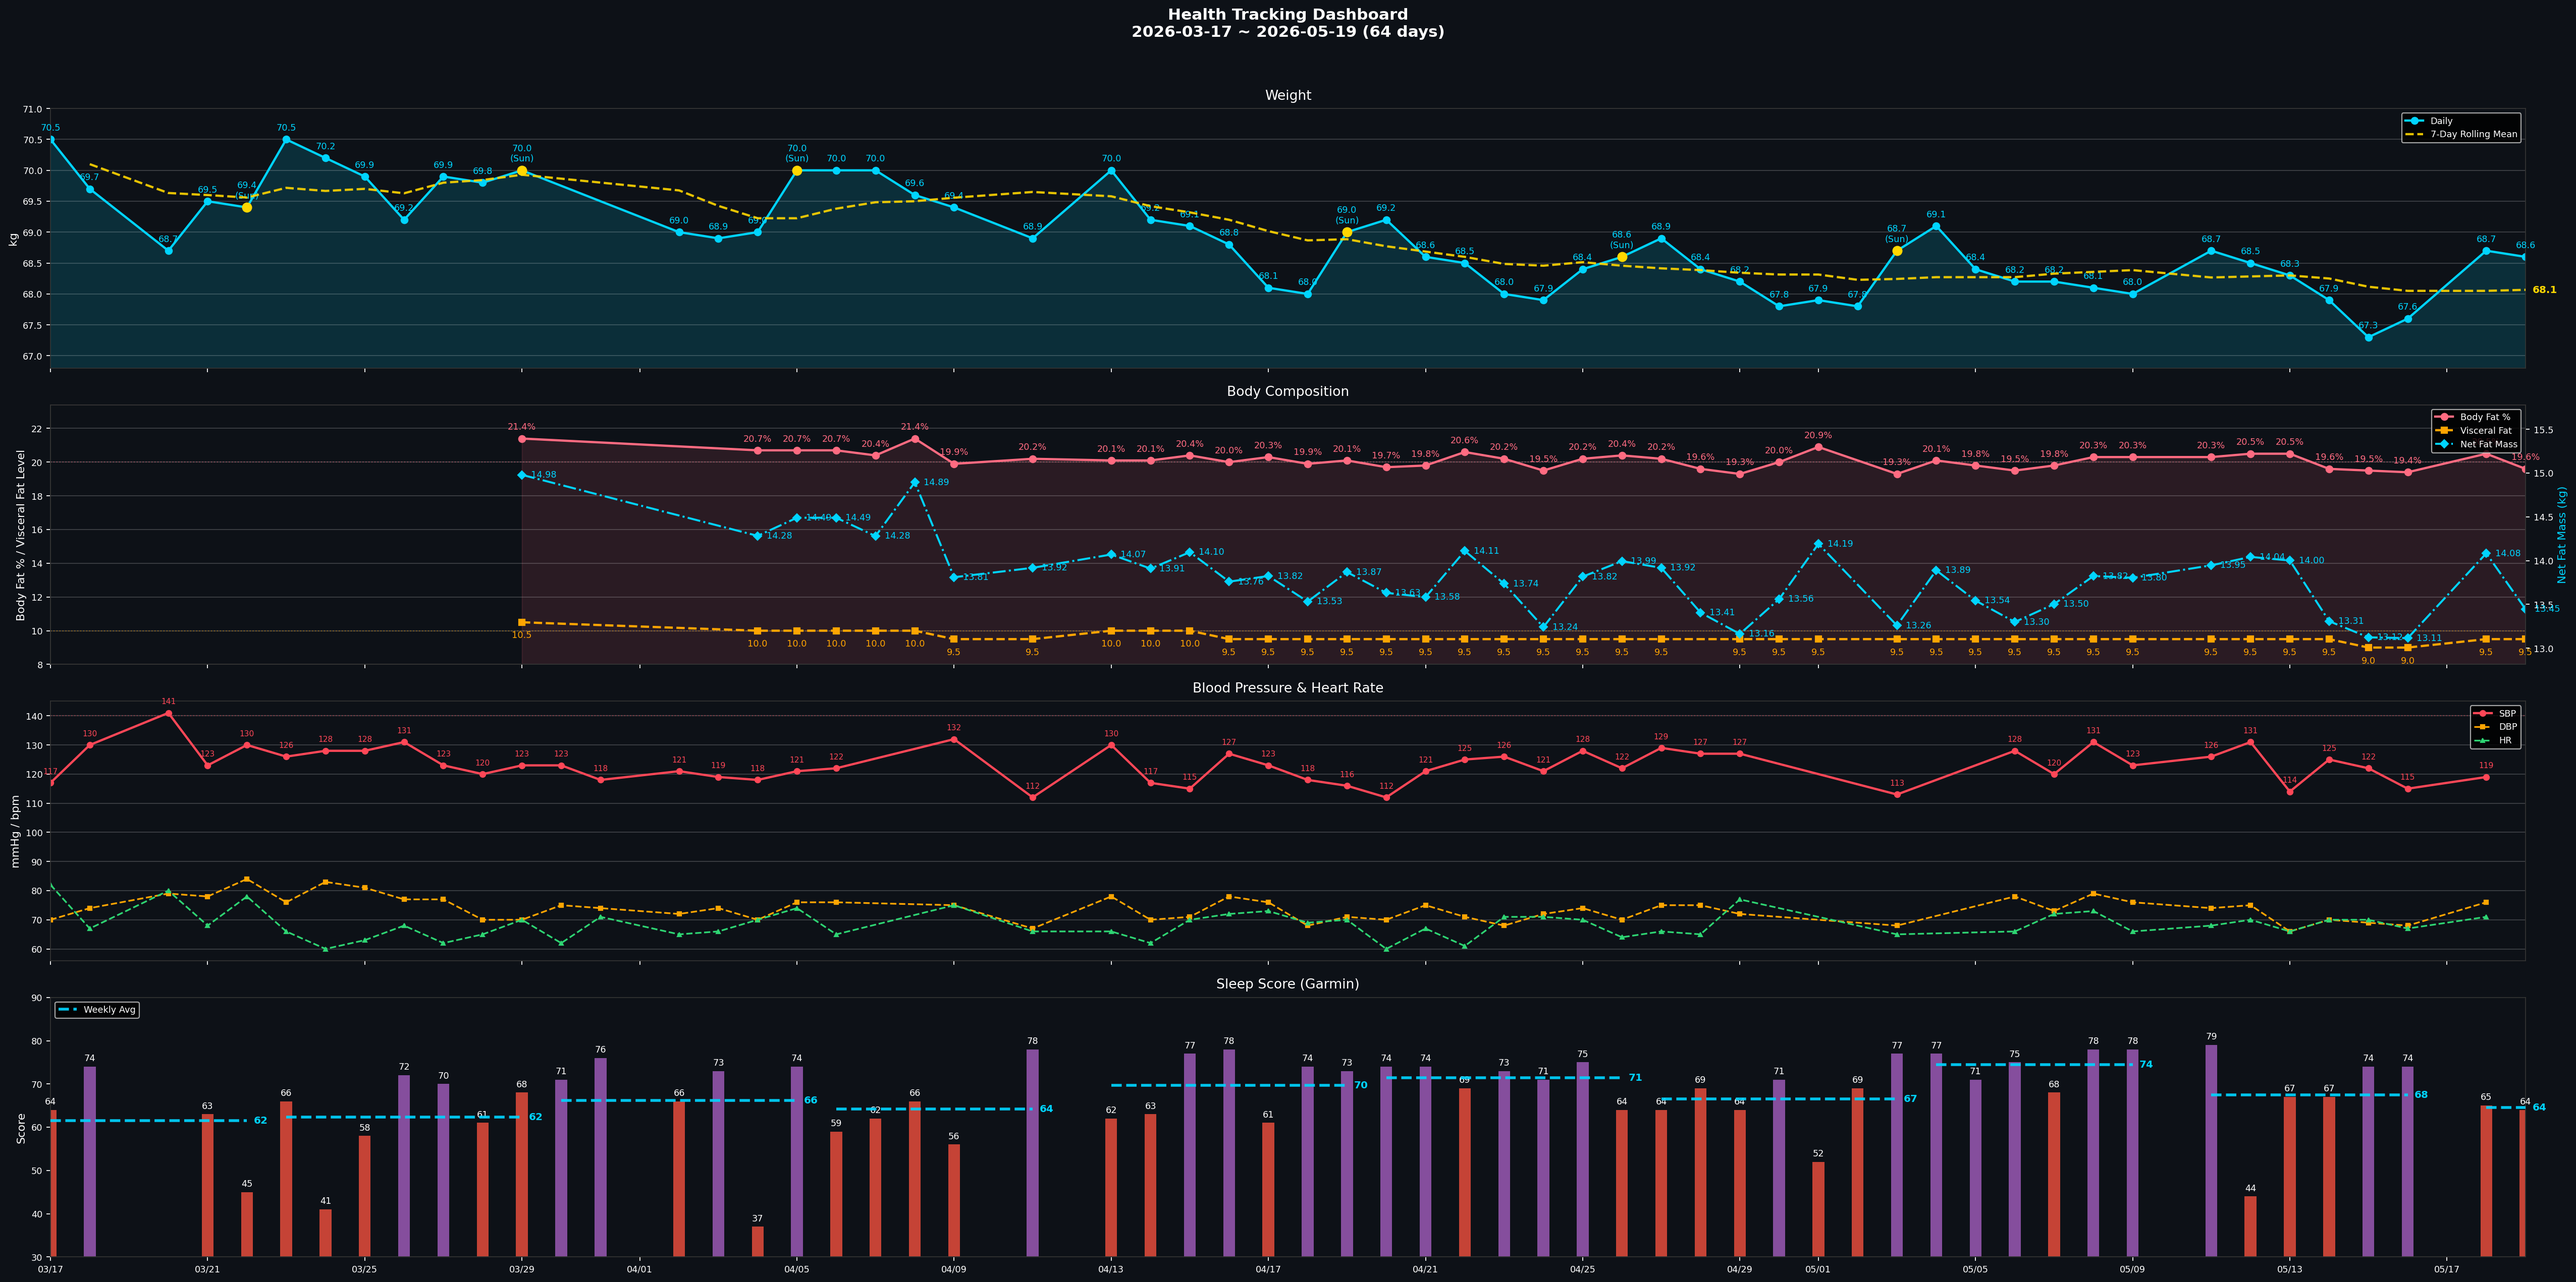
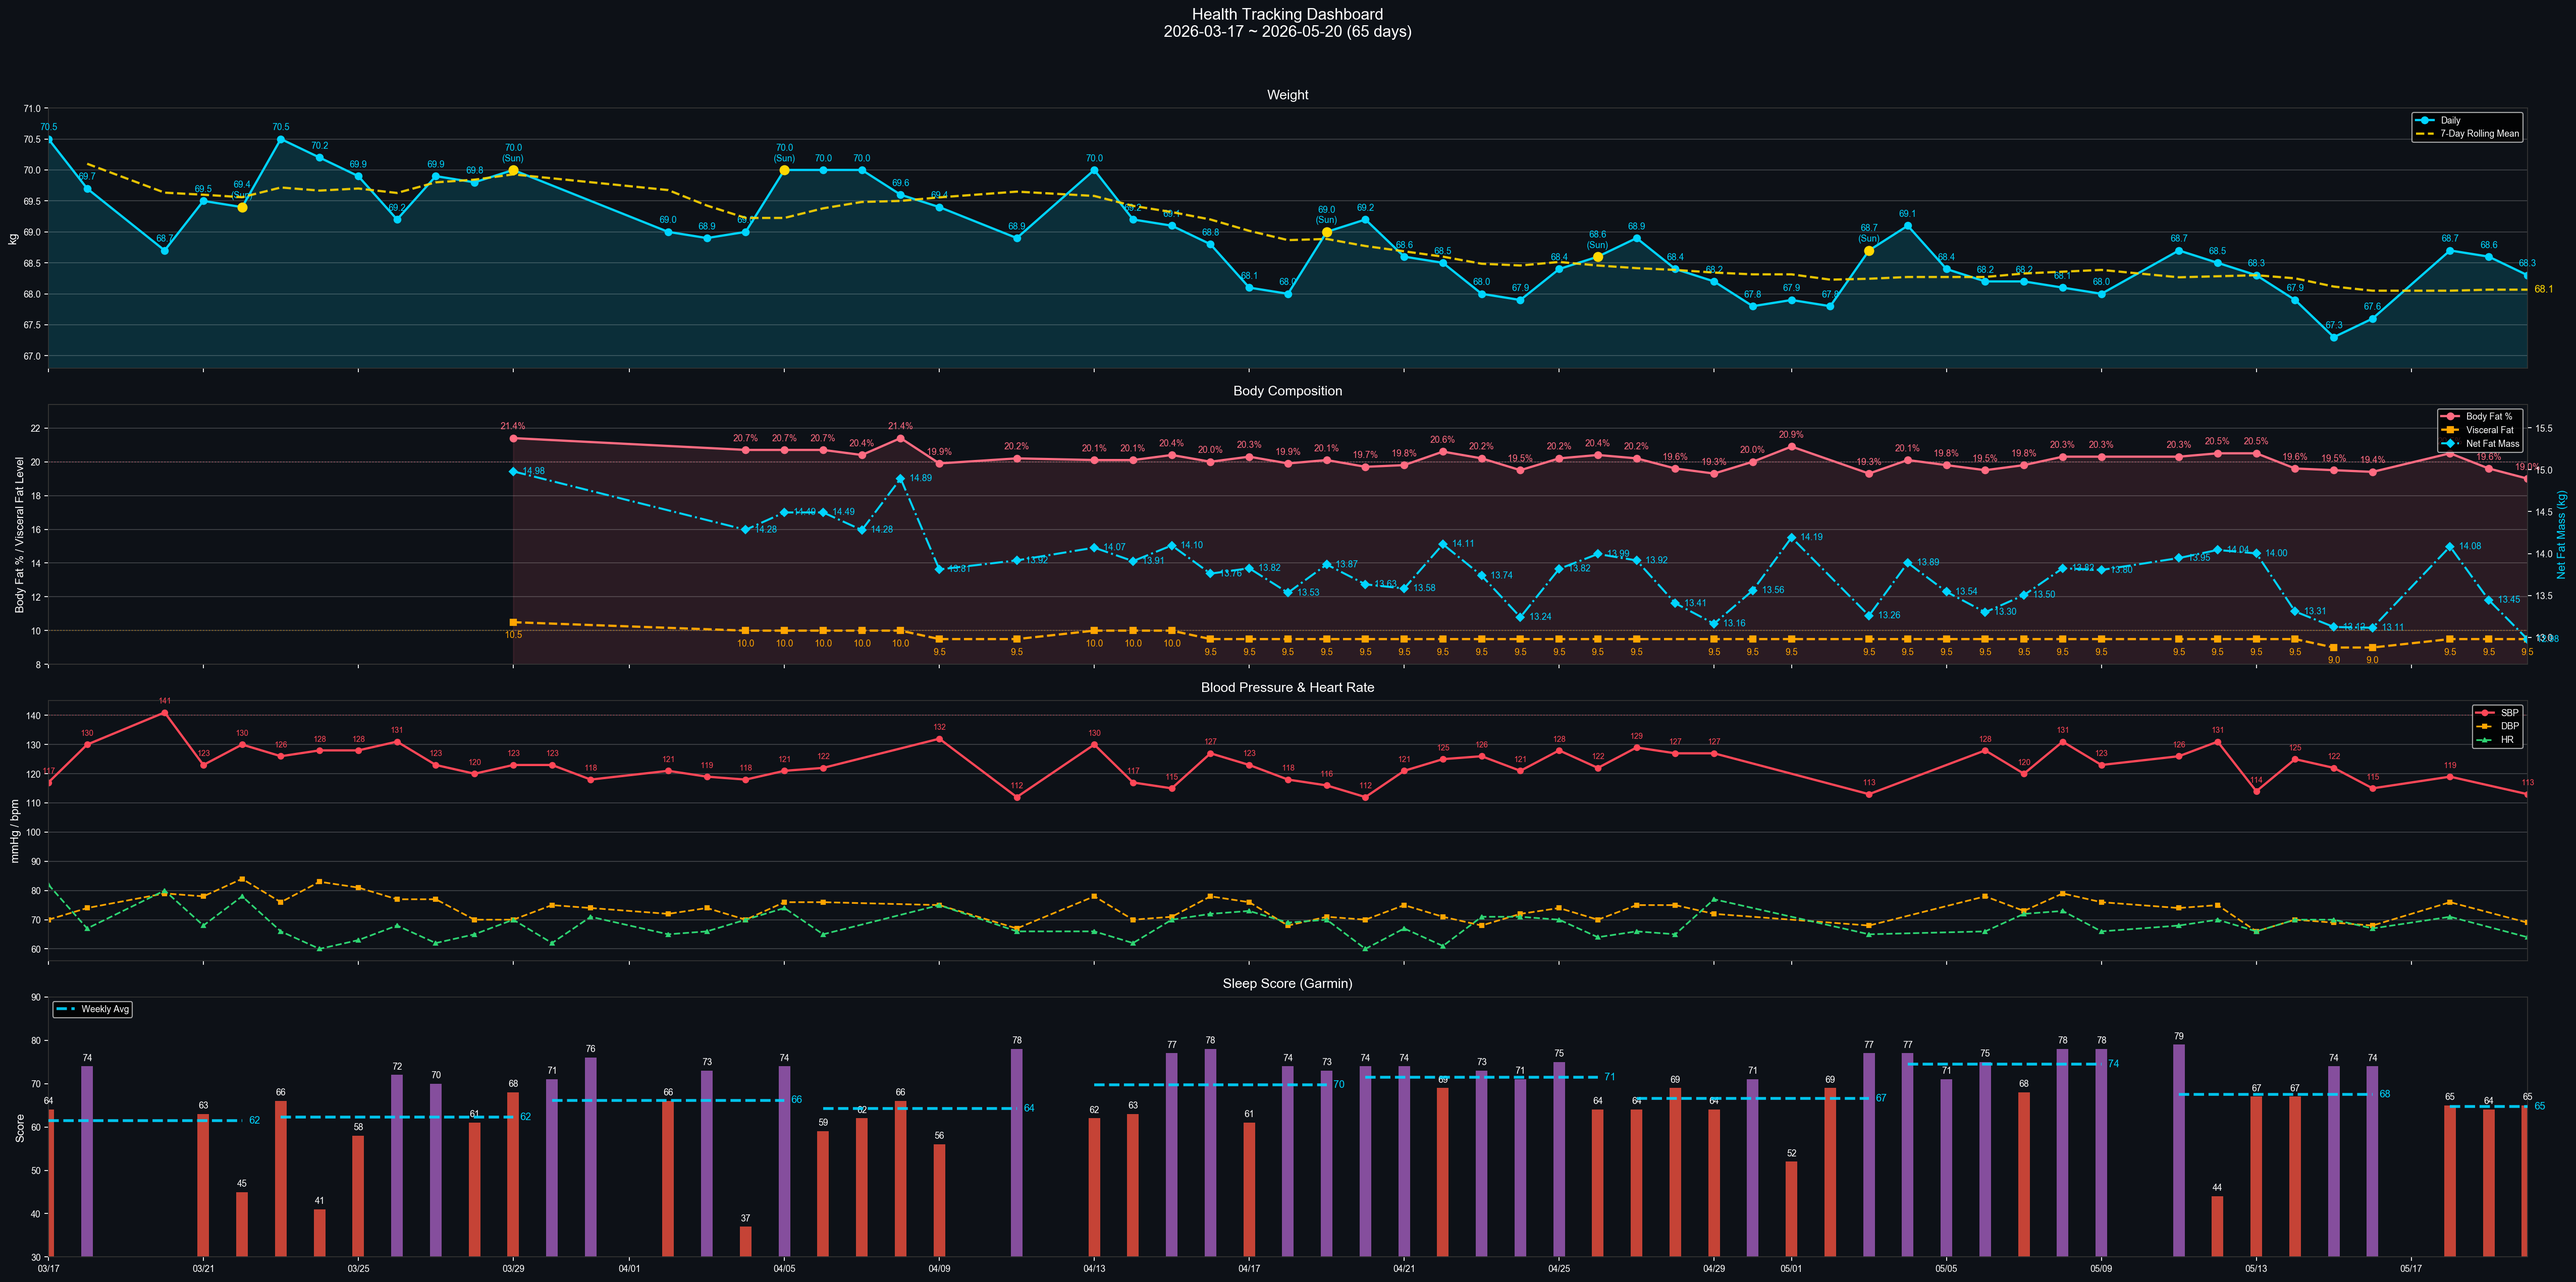
daily health log 2026-05-20

diff --git a/data.js b/data.js
@@ -9,8 +9,8 @@ window.HC_DATA = {
     lede:    { en: "Sleep, BP, lipids, uric acid — one shared metabolic root. Lifestyle stacks first; medication only after lifestyle plateaus.",
                zh: "睡眠、血壓、血脂、尿酸——共享同一個代謝根源。生活方式介入優先，等到效果平台期再考慮藥物。" },
     progressLbl: { en: "Weight progress · 70 → 65 kg", zh: "體重進度 · 70 → 65 公斤" },
-    progressMeta: { en: "Day 64 · 67.6 kg · Sat official (5/16)", zh: "第 64 天 · 67.6 公斤 · 週六正式（5/16）" },
-    startDate: { en: "Start date · Mar 17, 2026 · Last sync 5/19", zh: "起始日期 · 2026 年 3 月 17 日 · 最後同步 5/19" },
+    progressMeta: { en: "Day 65 · 67.6 kg · Sat official (5/16)", zh: "第 65 天 · 67.6 公斤 · 週六正式（5/16）" },
+    startDate: { en: "Start date · Mar 17, 2026 · Last sync 5/20", zh: "起始日期 · 2026 年 3 月 17 日 · 最後同步 5/20" },
     startWeight: 70,
     targetWeight: 65,
     currentWeight: 67.6,
@@ -39,13 +39,13 @@ window.HC_DATA = {
     {
       sys: "heart", name: { en: "Blood Pressure", zh: "血壓" },
       val: "122/70", unit: "mmHg",
-      delta: { en: "W20 weekly avg (6 days) · target met (<130) · last 119/76 (5/18)", zh: "W20 週均（6 天）· 已達標 (<130) · 最新 119/76 (5/18)" },
+      delta: { en: "W20 weekly avg (6 days) · target met (<130) · last 113/69 (5/20)", zh: "W20 週均（6 天）· 已達標 (<130) · 最新 113/69 (5/20)" },
       cadence: { en: "Daily · weekly avg", zh: "每日 · 週均" },
       status: "ok",
     },
     {
       sys: "sleep", name: { en: "Sleep Score", zh: "睡眠分數" },
-      val: "64", unit: "Garmin",
+      val: "65", unit: "Garmin",
       delta: { en: "5/4 · OSA flag: T90 18.4% (severe)", zh: "5/4 · OSA 紅旗：T90 18.4%（重度）" },
       cadence: { en: "Daily · Garmin", zh: "每日 · Garmin" },
       status: "warn",
@@ -850,14 +850,14 @@ window.HC_DATA = {
   tracker: {
     // [SBP, DBP] — gaps filled with prior reading
     bp: [
-      [128,78], [128,78], [128,78], [120,73], [131,79], [123,76], [126,74], [131,75], [114,66], [125,70], [122,69], [115,68], [119,76], [119,76],
+      [128,78], [128,78], [120,73], [131,79], [123,76], [126,74], [131,75], [114,66], [125,70], [122,69], [115,68], [119,76], [119,76], [113,69],
     ],
     // daily weight (kg)
-    weight: [69.1, 68.4, 68.2, 68.2, 68.1, 68, 68.7, 68.5, 68.3, 67.9, 67.3, 67.6, 68.7, 68.6],
+    weight: [68.4, 68.2, 68.2, 68.1, 68, 68.7, 68.5, 68.3, 67.9, 67.3, 67.6, 68.7, 68.6, 68.3],
     // Garmin Sleep Score
-    sleep:  [77, 71, 75, 68, 78, 78, 79, 44, 67, 67, 74, 74, 65, 64],
+    sleep:  [71, 75, 68, 78, 78, 79, 44, 67, 67, 74, 74, 65, 64, 65],
     // Body Battery waking
-    bb:     [49, 47, 56, 47, 37, 48, 55, 36, 42, 34, 51, 63, 48, 62],
+    bb:     [47, 56, 47, 37, 48, 55, 36, 42, 34, 51, 63, 48, 62, 54],
     // SpO2 nightly nadir % (last 14 days, parallel to bp/weight/sleep/bb).
     // Earlier nights null until sync_data_js.py backfills; banner only uses trailing values.
     spo2Nadir: [null, null, null, null, null, 84, 79, 87, 85, 84, 84, 86, 82, 84],

diff --git a/reviews/daily/2026-05-20.md b/reviews/daily/2026-05-20.md
@@ -1,0 +1,107 @@
+# 晨間健康紀錄 — 2026-05-20
+
+*3 分鐘。起床後立即完成。記錄，不分析。*
+
+---
+
+## 體重
+
+**今日：68.3 kg**
+**體脂率：19.0 %**
+**內臟脂肪等級：9.5**
+
+*每週六早晨為正式紀錄（排尿後、進食前；連 5 個工作日後、週末大餐前的真實低點）。其他日可選填。*
+
+---
+
+## 血壓（晨間）
+
+*起床後 1 小時內，上完廁所、進食前。坐下安靜 5 分鐘，連量兩次取第二次。*
+
+| 次數 | 收縮壓 | 舒張壓 | 心率 |
+|------|--------|--------|------|
+| 第一次 | | | |
+| 第二次 | 113 | 69 | 64 |
+
+---
+
+## 睡眠狀態
+
+**Garmin 偵測入睡：** 21:28
+**實際上床：**
+**實際起床：** 03:49
+**TST：** 6h 21m（深眠 111 分 / REM 22 分）
+**中途醒來：** 無
+**Garmin Sleep Score：** 65 / 100
+**Garmin Body Battery 起床值：** 54
+**主觀恢復感：** 3 / 5（1=極度疲憊, 5=精力充沛）
+**RHR：** 60 bpm｜**日均壓力：** 22
+**入睡 latency：**（自動估算，範圍 LO–HI 分）
+
+### SpO2 夜間最低（7 晚趨勢）
+
+| 日期 | -6 | -5 | -4 | -3 | -2 | -1 | 今晨 |
+|------|----|----|----|----|----|----|------|
+| 日期 | 5/14 | 5/15 | 5/16 | 5/17 | 5/18 | 5/19 | 5/20 |
+| 最低 % | 84 | 83 | 84 | 86 | 87 | 83 | 84 |
+
+**今晨日均 SpO2：** 96.0%（睡眠平均 97.0%）
+**< 88% 連續晚數：** 9+（瞬間秒級值；OSA 紅旗門檻：連 3 晚 < 88% → 強烈建議 PSG）
+
+**今晨 T90：** 4.2%（紅旗門檻 > 10%；昨日 2.2% → 今日翻倍）｜**最長 desat：** 8 分（紅旗 > 15 分）｜**最低點：** 84%（紅旗 < 80%）
+**Desat events：** 5 段（3 段 🟠 中度 84-87%；分布 00:28 / 00:41 / 00:44-45 / 00:47-50 / 02:05-12）
+**⚠ 入睡後 < 60 分連續 desat：** 00:44-50 段（入睡 21:28 後 ~3h 內反覆 desat，符合 N1/N2 阻塞 pattern）
+
+**SpO2 全夜圖：** reviews/daily/spo2/spo2_desat_2026-05-20.png
+
+*Sleep Score < 65 或 Body Battery < 50 連續三天 → 重新檢視睡眠修復方案。*
+
+---
+
+## 昨日回顧
+
+**實際飲水量：** 2.55 L ✅（目標 ≥ 2.5L；高尿酸最佳 2.8–3.0L；17:00 前完成 60-70%）
+**昨日步數：** 11,219（壓力日均 30）
+**昨日活動消耗：** 232 kcal 含 BMR / 197 kcal 主動（早走路 16 分 + 騎車 ×2 共 10 分；自動讀自 Garmin daily summary 活動區塊）
+  - > 300 kcal → 今日可彈性增加 200-300 kcal 攝取
+  - < 100 kcal → 今日加強運動（補一段 Zone 2 走路 30 分）
+**昨日 Na / K / Na-K ratio：** [ ] mg / [ ] mg / [ ]（自動讀自 `scripts/analyze_nutrition.py --date YYYY-MM-DD`）
+  - Na/K < 0.5 ✅ / 0.5-0.6 🟢 / 0.6-0.8 🟡 / > 0.8 🟠（INTERSALT 1988）
+  - 連 3 天 ≥ 0.8 → 首選減鈉（自煮蛋取代茶葉蛋 −440 mg）或加 K（香蕉 +422 mg）
+
+---
+
+## 身體信號
+
+*任何張力、疼痛、疲勞、異常 — 或「清」。記位置、性質、強度。*
+
+| 部位 | 性質 | 強度 (0-10) |
+|------|------|-------------|
+| 清 | — | — |
+
+---
+
+## 今日計畫速記
+
+- [ ] 飲水目標：2.5 L（建議 2.5–3.0L；錨點 09:30 ≥1.0L / 13:30 ≥2.0L / 17:00 截止 2.5L）
+- [ ] 補充品（核心，2026-05-11 v2）：
+  - 早餐（06:00）：D3 2000 IU + **K2 MK-7 180 mcg** + **L-Citrulline 4 g** + 益生菌
+  - 午餐前 30 min：Psyllium 5 g + 350 mL 水
+  - 晚餐前 30 min：Psyllium 5 g + 350 mL 水
+  - 晚餐後：魚油 ×4（拆 18:30 ×2 + 19:30 ×2）
+  - 睡前（21:00）：鎂甘胺酸 400 mg + 酸櫻桃 1000-2000 mg + **Glycine 純粉 3 g**（起步 1.5 g × 3 晚）
+  - 茶飲：洛神花 ×2 杯（早 + 14:00 前）
+  - 食物層：南瓜籽 30 g（15:30）+ **菇蕈 100-130 g/天**（午 30-50 + 晚 50-80）
+  - ⏸ 待定：NAC 600 mg × 2（待 PSG 結果）
+- [ ] 運動（17:00 固定）：走路 (Zone 2)
+- [ ] 活動度/伸展（09:30 + 20:30 兩次錨點）：全身伸展（兩次錨點）
+- [ ] Wind-down（20:00 燈光降 + 螢幕濾鏡，液體截止）
+- [ ] 上床 21:30 / 熄燈 22:00（TST 目標 7h+）
+
+---
+
+💡 PT 建議：⚠ **SpO2 警示升級** — T90 從 5/18 的 2.2% → 今日 **4.2%**（翻倍），最長 desat 4 分 → **8 分**，最低 87% → **84%**（3 段 🟠 中度），且 00:44-50 入睡後反覆 desat 接近 N1/N2 OSA pattern；雖未踩 T90>10% 紅旗，**趨勢明顯往該方向走**，PSG 預約應升為本週首要任務。Sleep Score 連 3 日 65/64/65（5/18-5/20 踩線徘徊），TST 6h21 雖比 5/18 進步，但 **03:49 早醒成為連 3 天 pattern**（5/18 03:24 / 5/19 03:42 / 5/20 03:49）— 排查睡前環境因素（光、噪音、液體截止）。血壓 113/69 + 心率 64 副交感優勢明顯，今日 Zone 2 散步 + 全身伸展對位剛好，別加強度。
+
+---
+
+*Filed: reviews/daily/2026-05-20.md*

diff --git a/reviews/weekly/2026-W21.md b/reviews/weekly/2026-W21.md
@@ -31,9 +31,9 @@
 
 |  | 一 | 二 | 三 | 四 | 五 | 六 | 日 |
 |--|----|----|----|----|----|----|-----|
-| 體重 (kg) | 68.7 | 68.6 | | | | | |
-| 體脂率 (%) | 20.5 | 19.6 | | | | | |
-| 內臟脂肪 | 9.5 | 9.5 | | | | | |
+| 體重 (kg) | 68.7 | 68.6 | 68.3 | | | | |
+| 體脂率 (%) | 20.5 | 19.6 | 19.0 | | | | |
+| 內臟脂肪 | 9.5 | 9.5 | 9.5 | | | | |
 
 **本週正式讀數（週六早晨）：** _____ kg｜體脂率：_____%｜內臟脂肪：_____
 **上週正式讀數（週六早晨）：** _____ kg｜體脂率：_____%｜內臟脂肪：_____
@@ -47,7 +47,7 @@
 |------|--------|--------|------|
 | 5/18 (一) | 119 | 76 | 71 |
 | 5/19 (二) | — | — | — |
-| 5/20 (三) | | | |
+| 5/20 (三) | 113 | 69 | 64 |
 | 5/21 (四) | | | |
 | 5/22 (五) | | | |
 | 5/23 (六) | | | |
@@ -65,7 +65,7 @@
 |------|------|------|--------|-------------|--------------|----------|
 | 5/18 (一) | 21:20 | 03:24 | 無 | 65 | 48 | 3 |
 | 5/19 (二) | 22:41 | 03:42 | 0 | 64 | 62 | 3 |
-| 5/20 (三) | | | | | | |
+| 5/20 (三) | 21:28 | 03:49 | 無 | 65 | 54 | 3 |
 | 5/21 (四) | | | | | | |
 | 5/22 (五) | | | | | | |
 | 5/23 (六) | | | | | | |
@@ -99,7 +99,7 @@
 
 | 信號（部位+性質） | 出現天數 | 平均強度 | 趨勢（↑↓→） | 備註 |
 |-------------------|----------|----------|-------------|------|
-| 清 | 1 | — | — | 05-19 |
+| 清 | 3 | — | — | 05-18 / 05-19 / 05-20 |
 
 **反覆出現（≥ 3 天）：** 無
 

diff --git a/reports/daily-garmin/2026-05-19.md b/reports/daily-garmin/2026-05-19.md
@@ -11,13 +11,13 @@
 - RHR：59.0 bpm
 
 ## 壓力
-- 日均：21
+- 日均：30
 
 ## 步數
-- 總計：5,766
+- 總計：11,219
 
 ## SpO2
-- 日均：96.0%
+- 日均：95.0%
 - 最低：83%
 
 ## 活動
@@ -25,11 +25,12 @@
 |------|------|------|------|---------|---------|-----------|--------|
 | 05:54 | walking | 1.66 km | 16.1 min | 133 | 156 | 114 | 135 |
 | 08:59 | cycling | 0.97 km | 4.9 min | 133 | 144 | 43 | 50 |
-| **小計** | 2 段 | **2.63 km** | **21.0 min** | — | — | **157** | **185** |
+| 17:18 | cycling | 1.15 km | 5.1 min | 125 | 146 | 40 | 47 |
+| **小計** | 3 段 | **3.78 km** | **26.1 min** | — | — | **197** | **232** |
 
 ## 飲水
-- 實際：0.00 L
+- 實際：2.55 L
 - 目標：2.00 L
-- 運動流汗耗水：0.30 L
+- 運動流汗耗水：0.37 L
 
 _Source: data/garmin/2026-05-19.json (gitignored)_

diff --git a/reports/daily-garmin/2026-05-20.md b/reports/daily-garmin/2026-05-20.md
@@ -1,0 +1,27 @@
+# Garmin 每日摘要 — 2026-05-20
+
+## 睡眠
+- 就寢：21:28｜起床：03:49
+- 總時長：6h 21m
+- 深眠：111 分｜REM：22 分
+- Sleep Score：65
+- Body Battery 起床值：54
+
+## 靜息心率
+- RHR：60.0 bpm
+
+## 壓力
+- 日均：22
+
+## 步數
+- 總計：132
+
+## SpO2
+- 日均：96.0%
+- 最低：84%
+
+## 飲水
+- 實際：— （Garmin Connect 未紀錄，請於 check-in 手動輸入）
+- 目標：2.00 L
+
+_Source: data/garmin/2026-05-20.json (gitignored)_

diff --git a/reports/daily-garmin/2026-05-17.md b/reports/daily-garmin/2026-05-17.md
@@ -6,7 +6,8 @@
 - 深眠：34 分｜REM：56 分
 - Sleep Score：61
 - Body Battery 起床值：47
-- 估算上床：00:18｜入睡 latency：23 分（範圍 23–41 分）
+- 估算上床：00:18｜入睡 latency：23 分
+  - 備註：步數訊號缺; 壓力訊號缺
 
 ## 靜息心率
 - RHR：58.0 bpm

diff --git a/reports/daily-garmin/2026-05-16.md b/reports/daily-garmin/2026-05-16.md
@@ -11,13 +11,13 @@
 - RHR：57.0 bpm
 
 ## 壓力
-- 日均：33
+- 日均：19
 
 ## 步數
-- 總計：11,884
+- 總計：82
 
 ## SpO2
-- 日均：95.0%
+- 日均：94.0%
 - 最低：84%
 
 ## 飲水

diff --git a/reports/daily-garmin/2026-05-18.md b/reports/daily-garmin/2026-05-18.md
@@ -11,10 +11,10 @@
 - RHR：59.0 bpm
 
 ## 壓力
-- 日均：24
+- 日均：17
 
 ## 步數
-- 總計：9,473
+- 總計：612
 
 ## SpO2
 - 日均：97.0%
